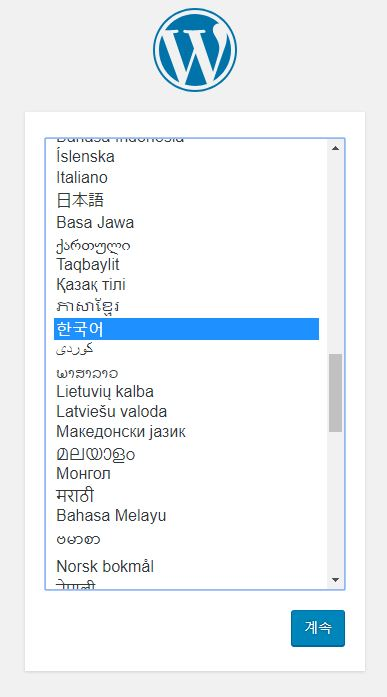
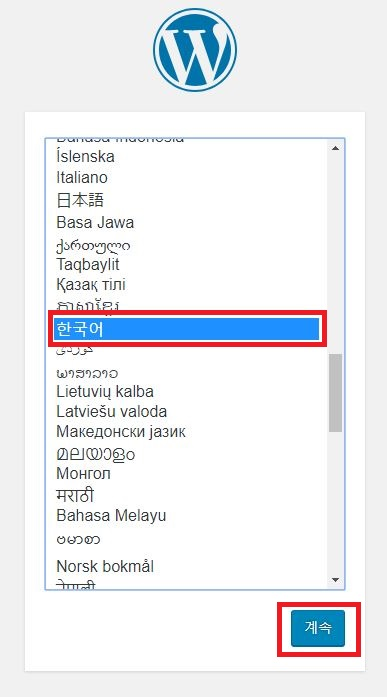
ec2 wp

Changed region(s): [[0.124, 0.4218, 0.8682, 0.5122], [0.7132, 0.8436, 0.9302, 0.9641]]

diff --git a/_posts/2019-01-08-aws-ec2-server-wp.md b/_posts/2019-01-08-aws-ec2-server-wp.md
@@ -141,6 +141,16 @@ Amazon Linux에서는 다른 방식으로 사용한다.
 탭과 메인에 표시될 사이트의 이름을 설정하고 워드프레스 사용자(관리자)의 ID를 사용자명에 입력한다.  
 관리자 비밀번호를 입력하고 나머지 정보도 입력 후 설치를 진행한다.
 
+<figure>
+	<a href="{{site.url}}/assets/img/aws/ec2_wp/wp_2.JPG"><img src="{{site.url}}/assets/img/aws/ec2_wp/wp_2.JPG"></a>
+	<figcaption>언어 설정</figcaption>
+</figure>
+
 #### 워드프레스 설치 완료
 
 설치가 완료되면 입력한 ID와 비밀번호를 사용해 관리자모드로 로그인 할 수 있다.
+
+<figure>
+	<a href="{{site.url}}/assets/img/aws/ec2_wp/wp_3.JPG"><img src="{{site.url}}/assets/img/aws/ec2_wp/wp_3.JPG"></a>
+	<figcaption>언어 설정</figcaption>
+</figure>
